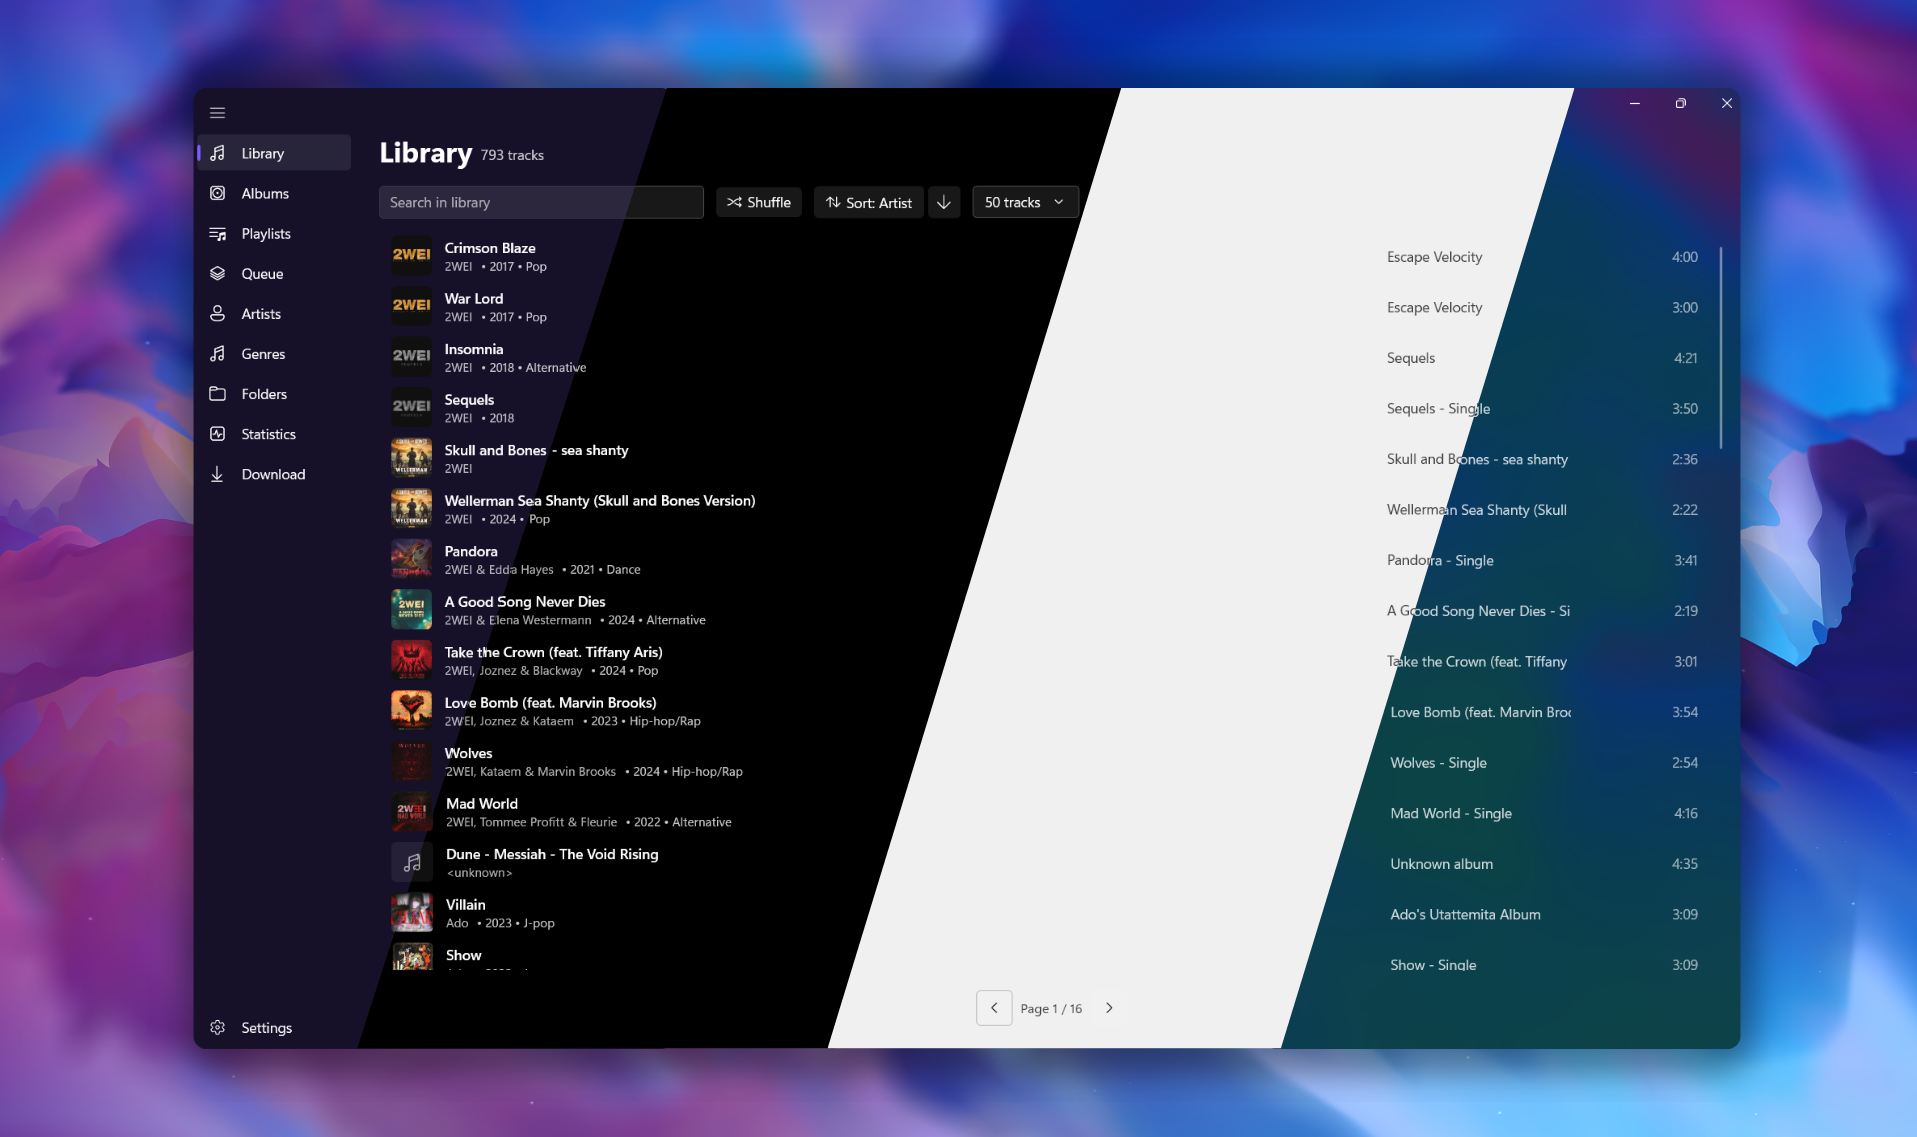
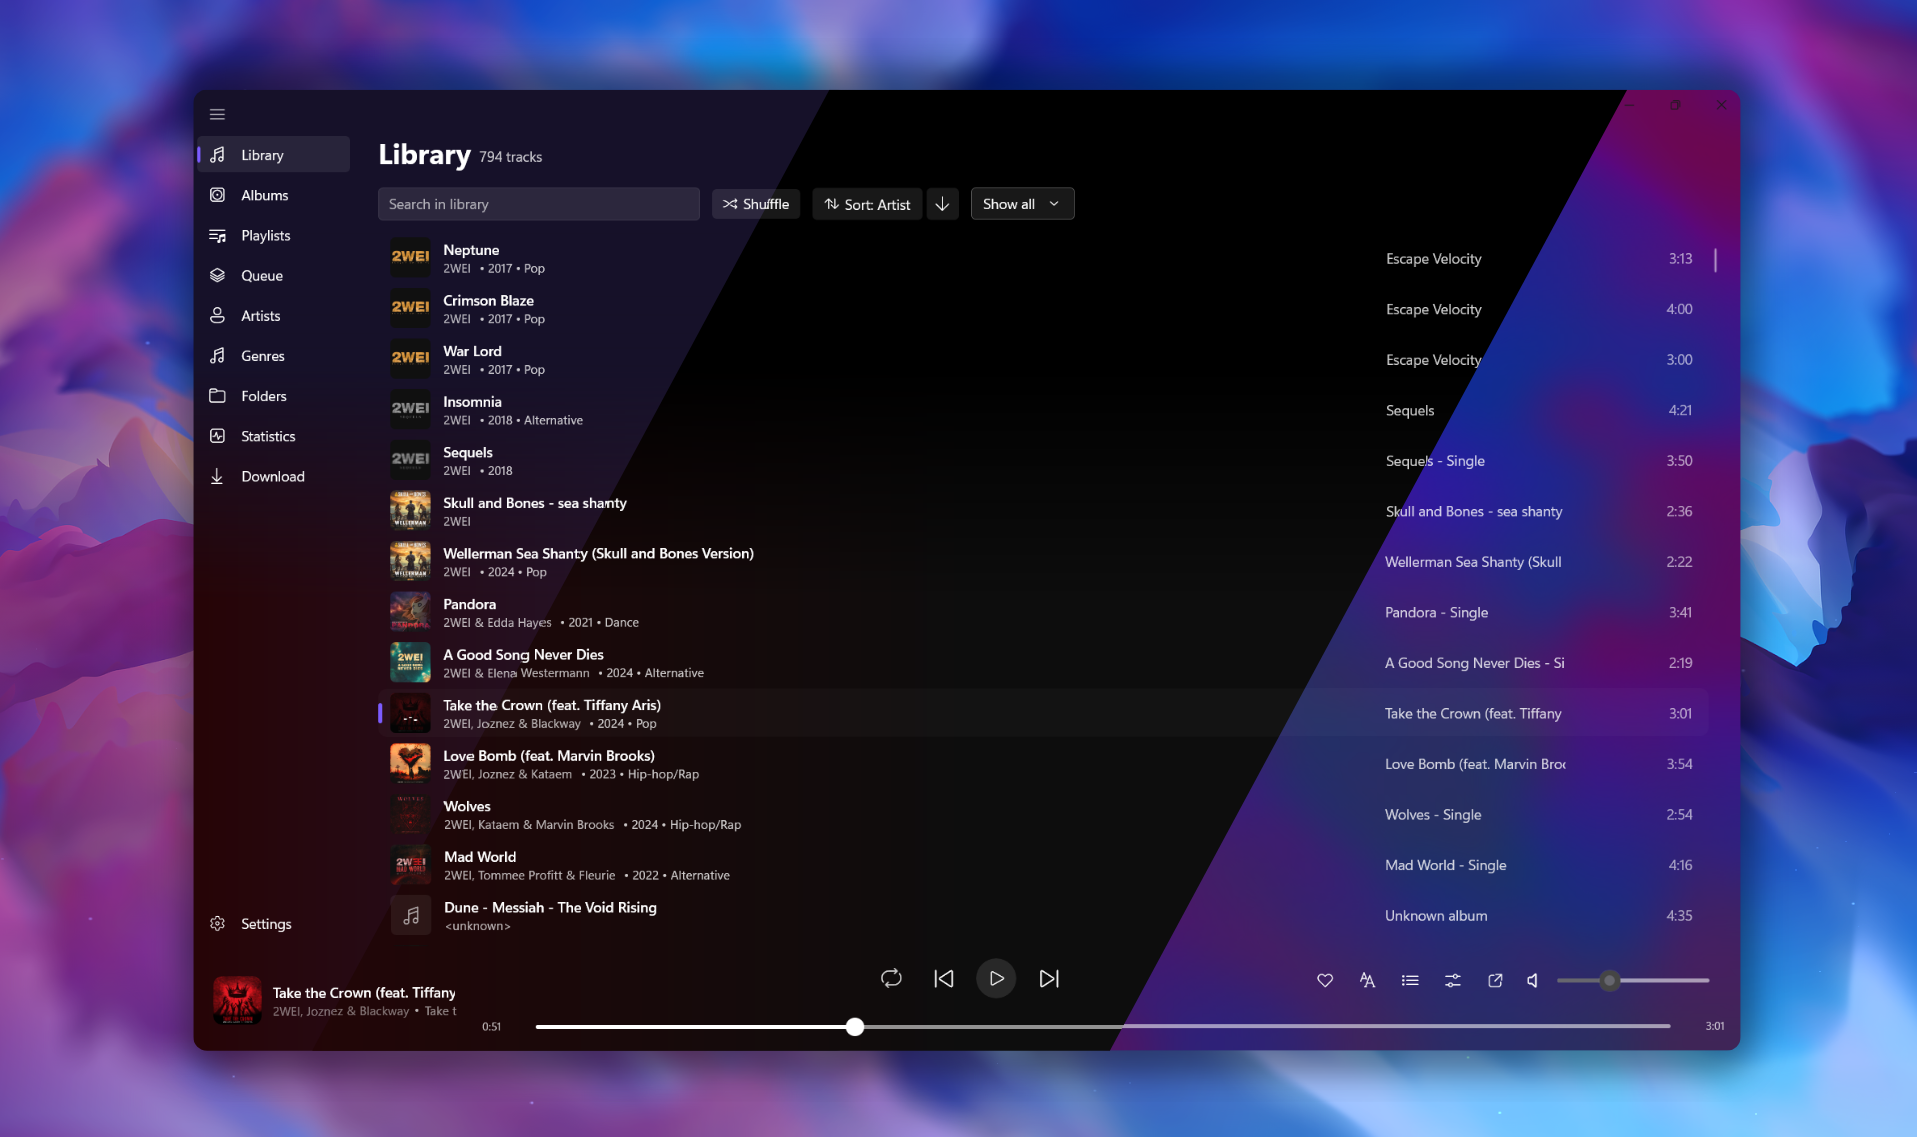
Add files via upload

diff --git a/README.md b/README.md
@@ -67,33 +67,45 @@ Since this is AI-generated code, transparency is key:
 
 ```
 Resona/
-├── .github/                   # GitHub Actions workflows for automated releases
-├── .gitignore                 # Standard Visual Studio gitignore
-├── README.md                  # Project documentation
-└── src/
-    ├── Resona.csproj          # The WinUI 3 project file
-    ├── app.manifest           # Windows application manifest (permissions, DPI)
-    ├── icon.ico               # Application icon
-    ├── Program.cs             # Native entry point for WinUI 3
-    ├── App.xaml(.cs)          # Application lifecycle and service registration
-    ├── MainWindow.xaml(.cs)   # Main UI, navigation, and playback bar overlay
-    ├── Converters/            # XAML value converters (UI data binding)
-    ├── Helpers/               # Utility classes (animations, UI extensions)
-    ├── Models/
-    │   ├── Models.cs          # Core track metadata, playlist entity, settings
-    │   └── Strings.cs         # Localization strings (FR/EN)
-    ├── Services/
-    │   ├── Services.cs              # Centralized services (AudioEngine, LibraryCache, CoverArt, AutoTag, Playlist...)
-    │   ├── AIService.cs             # AI interaction and API endpoints for smart playlists
-    │   ├── DiscordRpcService.cs     # Discord Rich Presence integration
-    │   ├── TrayIconService.cs       # Windows system tray integration
-    │   └── BackupService.cs         # AI backup data management
-    └── Views/
-        ├── LibraryPage.xaml(.cs)    # Main library grid
-        ├── AlbumsPage.xaml(.cs)     # Album grouping
-        ├── PlaylistsPage.xaml(.cs)  # Playlist management
-        ├── SettingsPage.xaml(.cs)   # Application settings
-        └── QueuePage.xaml(.cs)      # Up next queue and manual reordering
+│ .github/                   # GitHub Actions workflows for automated releases
+│ .gitignore                 # Standard Visual Studio gitignore
+│ README.md                  # Project documentation
+│ src/
+    │ Resona.csproj          # The WinUI 3 project file
+    │ app.manifest           # Windows application manifest (permissions, DPI)
+    │ icon.ico               # Application icon
+    │ Program.cs             # Native entry point for WinUI 3
+    │ App.xaml(.cs)          # Application lifecycle and theme resources
+    │ MainWindow.xaml(.cs)   # Main UI, navigation, and playback bar overlay
+    │ UpdateManager.cs       # GitHub automatic release checking
+    │ GlobalUsings.cs        # Global namespace imports
+    │ Converters/            # XAML value converters (UI data binding)
+    │ Helpers/               # Utility classes (animations, dialogs, pagination)
+    │ Models/
+    │   │ Models.cs          # Core track metadata, playlist entity, settings
+    │   │ Strings.cs         # Localization strings (FR/EN)
+    │ Services/
+    │   │ Services.cs                 # Centralized services (AudioEngine, Tagging, YT-DLP, Playlist, Wikipedia...)
+    │   │ AIService.cs                # AI interaction and API endpoints for smart playlists
+    │   │ DiscordRpcService.cs        # Discord Rich Presence integration
+    │   │ TrayIconService.cs          # Windows system tray integration
+    │   │ BackupService.cs            # AI backup data management
+    │   │ EqualizerSampleProvider.cs  # 10-band audio graphic equalizer logic
+    │ Views/
+        │ LibraryPage.xaml(.cs)       # Main library grid
+        │ AlbumsPage.xaml(.cs)        # Album grouping
+        │ ArtistsPage.xaml(.cs)       # Artist grouping and biographies
+        │ GenresPage.xaml(.cs)        # Genre grouping
+        │ FoldersPage.xaml(.cs)       # Folder-based browsing
+        │ PlaylistsPage.xaml(.cs)     # Playlist management
+        │ PlaylistDetailPage.xaml(.cs)# Specific playlist content
+        │ QueuePage.xaml(.cs)         # Up next queue and manual reordering
+        │ NowPlayingPage.xaml(.cs)    # Full-screen player view
+        │ LyricsPage.xaml(.cs)        # Synchronized lyrics view
+        │ DownloadPage.xaml(.cs)      # Music downloading via YouTube/yt-dlp
+        │ StatisticsPage.xaml(.cs)    # Listening habits and database stats
+        │ SettingsPage.xaml(.cs)      # Application settings
+        │ OnboardingPage.xaml(.cs)    # First launch setup wizard
 ```
 
 ---
